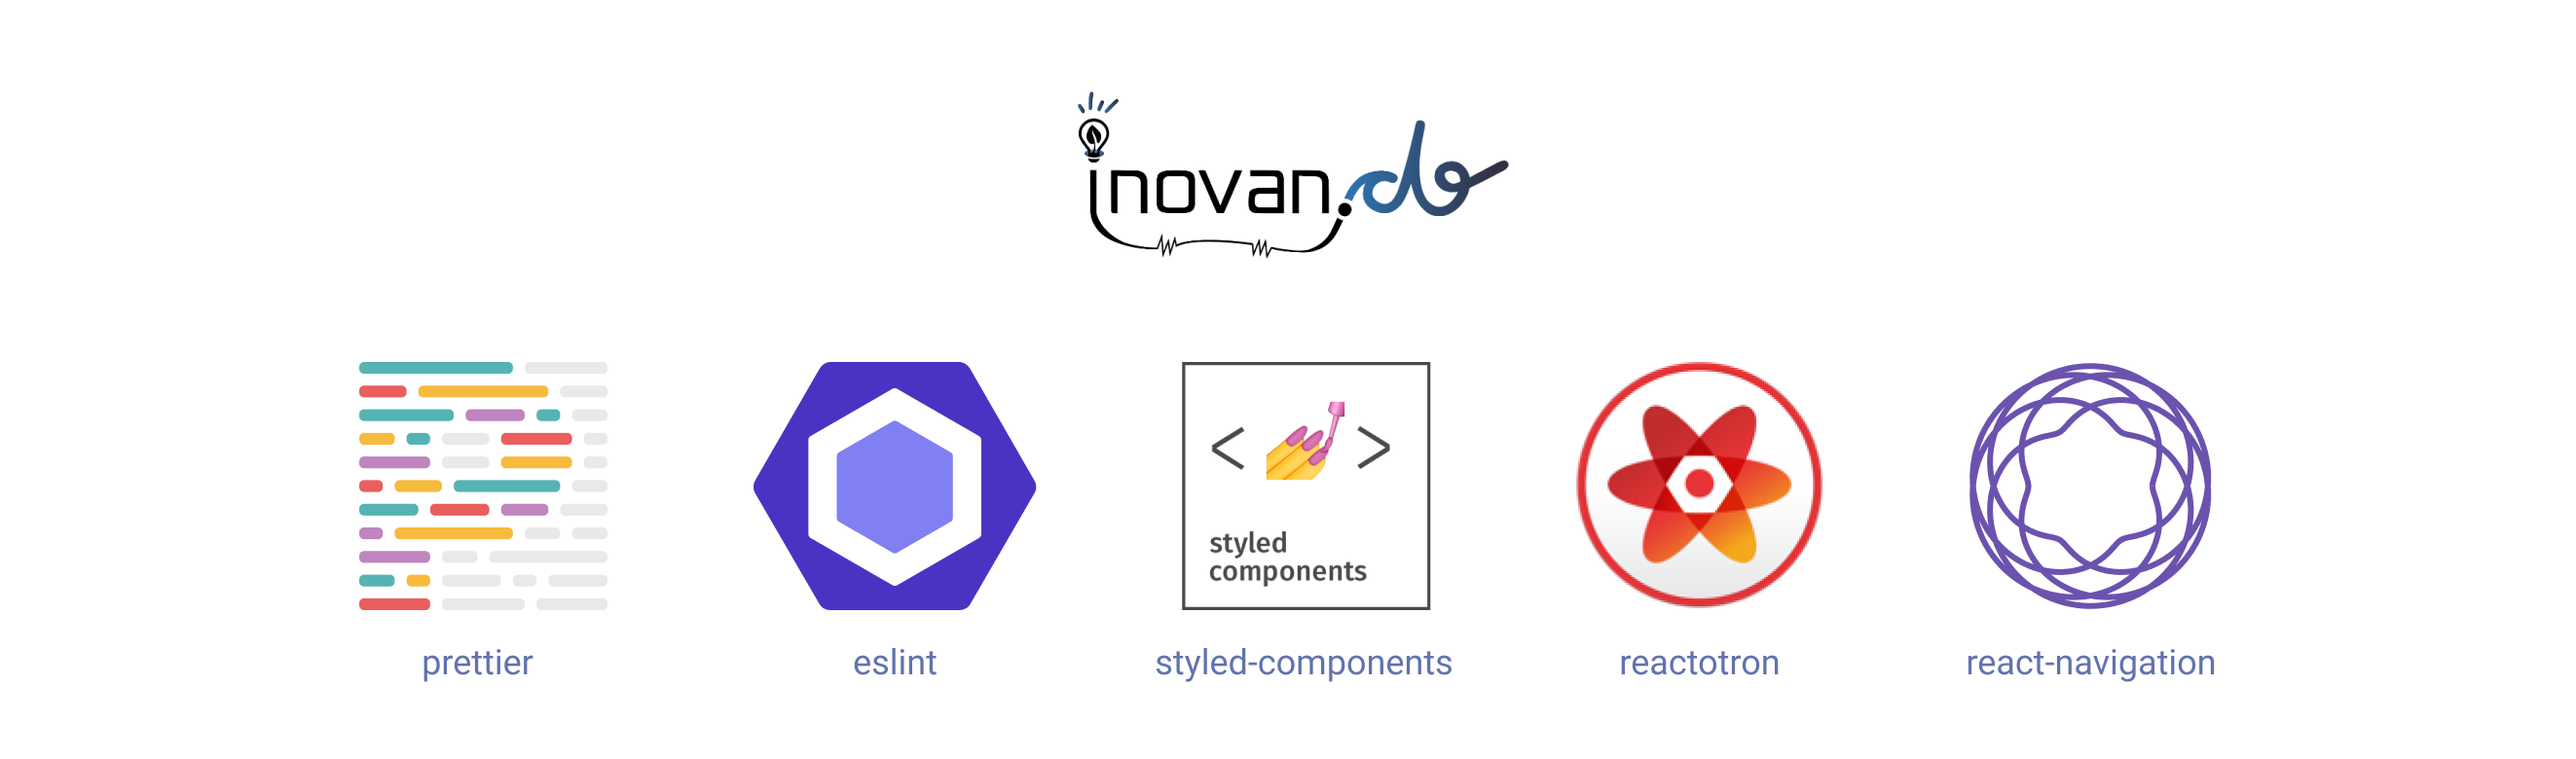
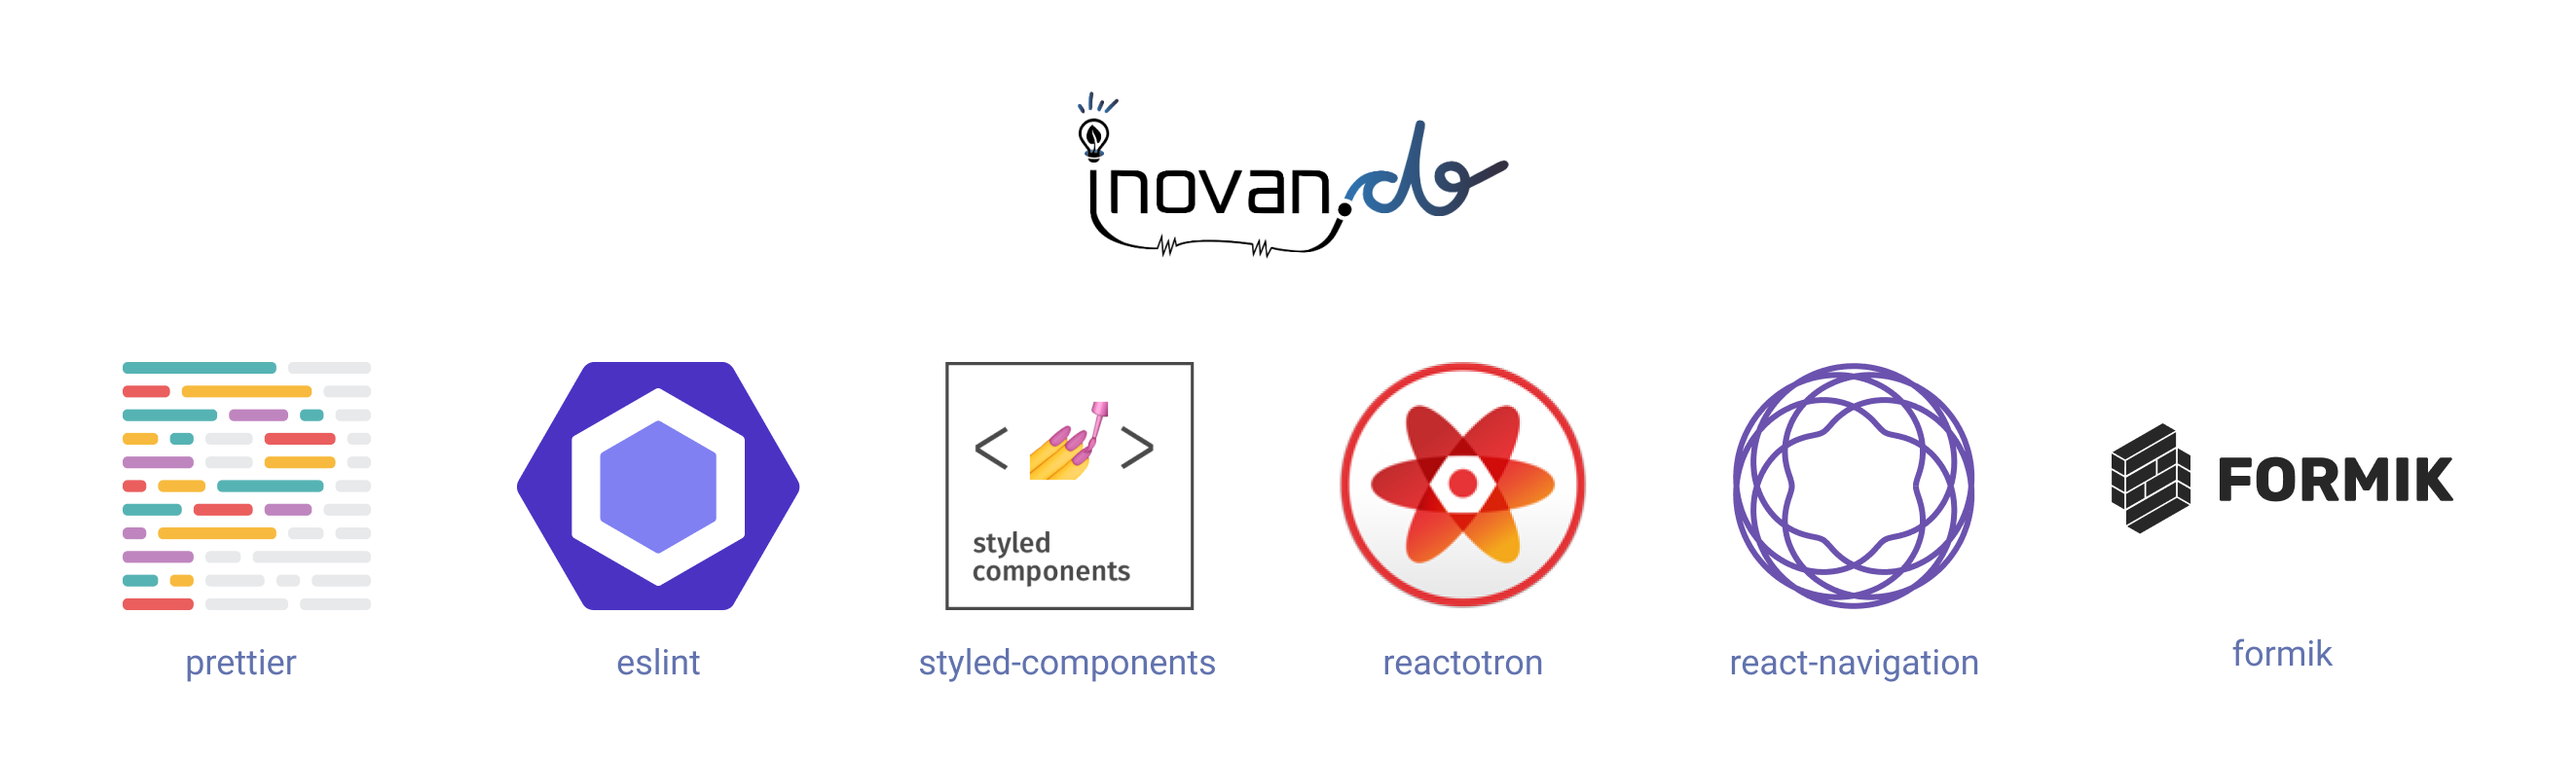
update techs at readme

diff --git a/README.md b/README.md
@@ -69,3 +69,5 @@ npm publish --access public
 - [x] [React Navigation](https://reactnavigation.org/en/)
 - [x] [Reactotron](https://github.com/infinitered/reactotron)
 - [x] [React Devtools](https://www.npmjs.com/package/react-devtools)
+- [x] [Formik](https://jaredpalmer.com/formik/)
+- [x] [Yup](https://github.com/jquense/yup)
